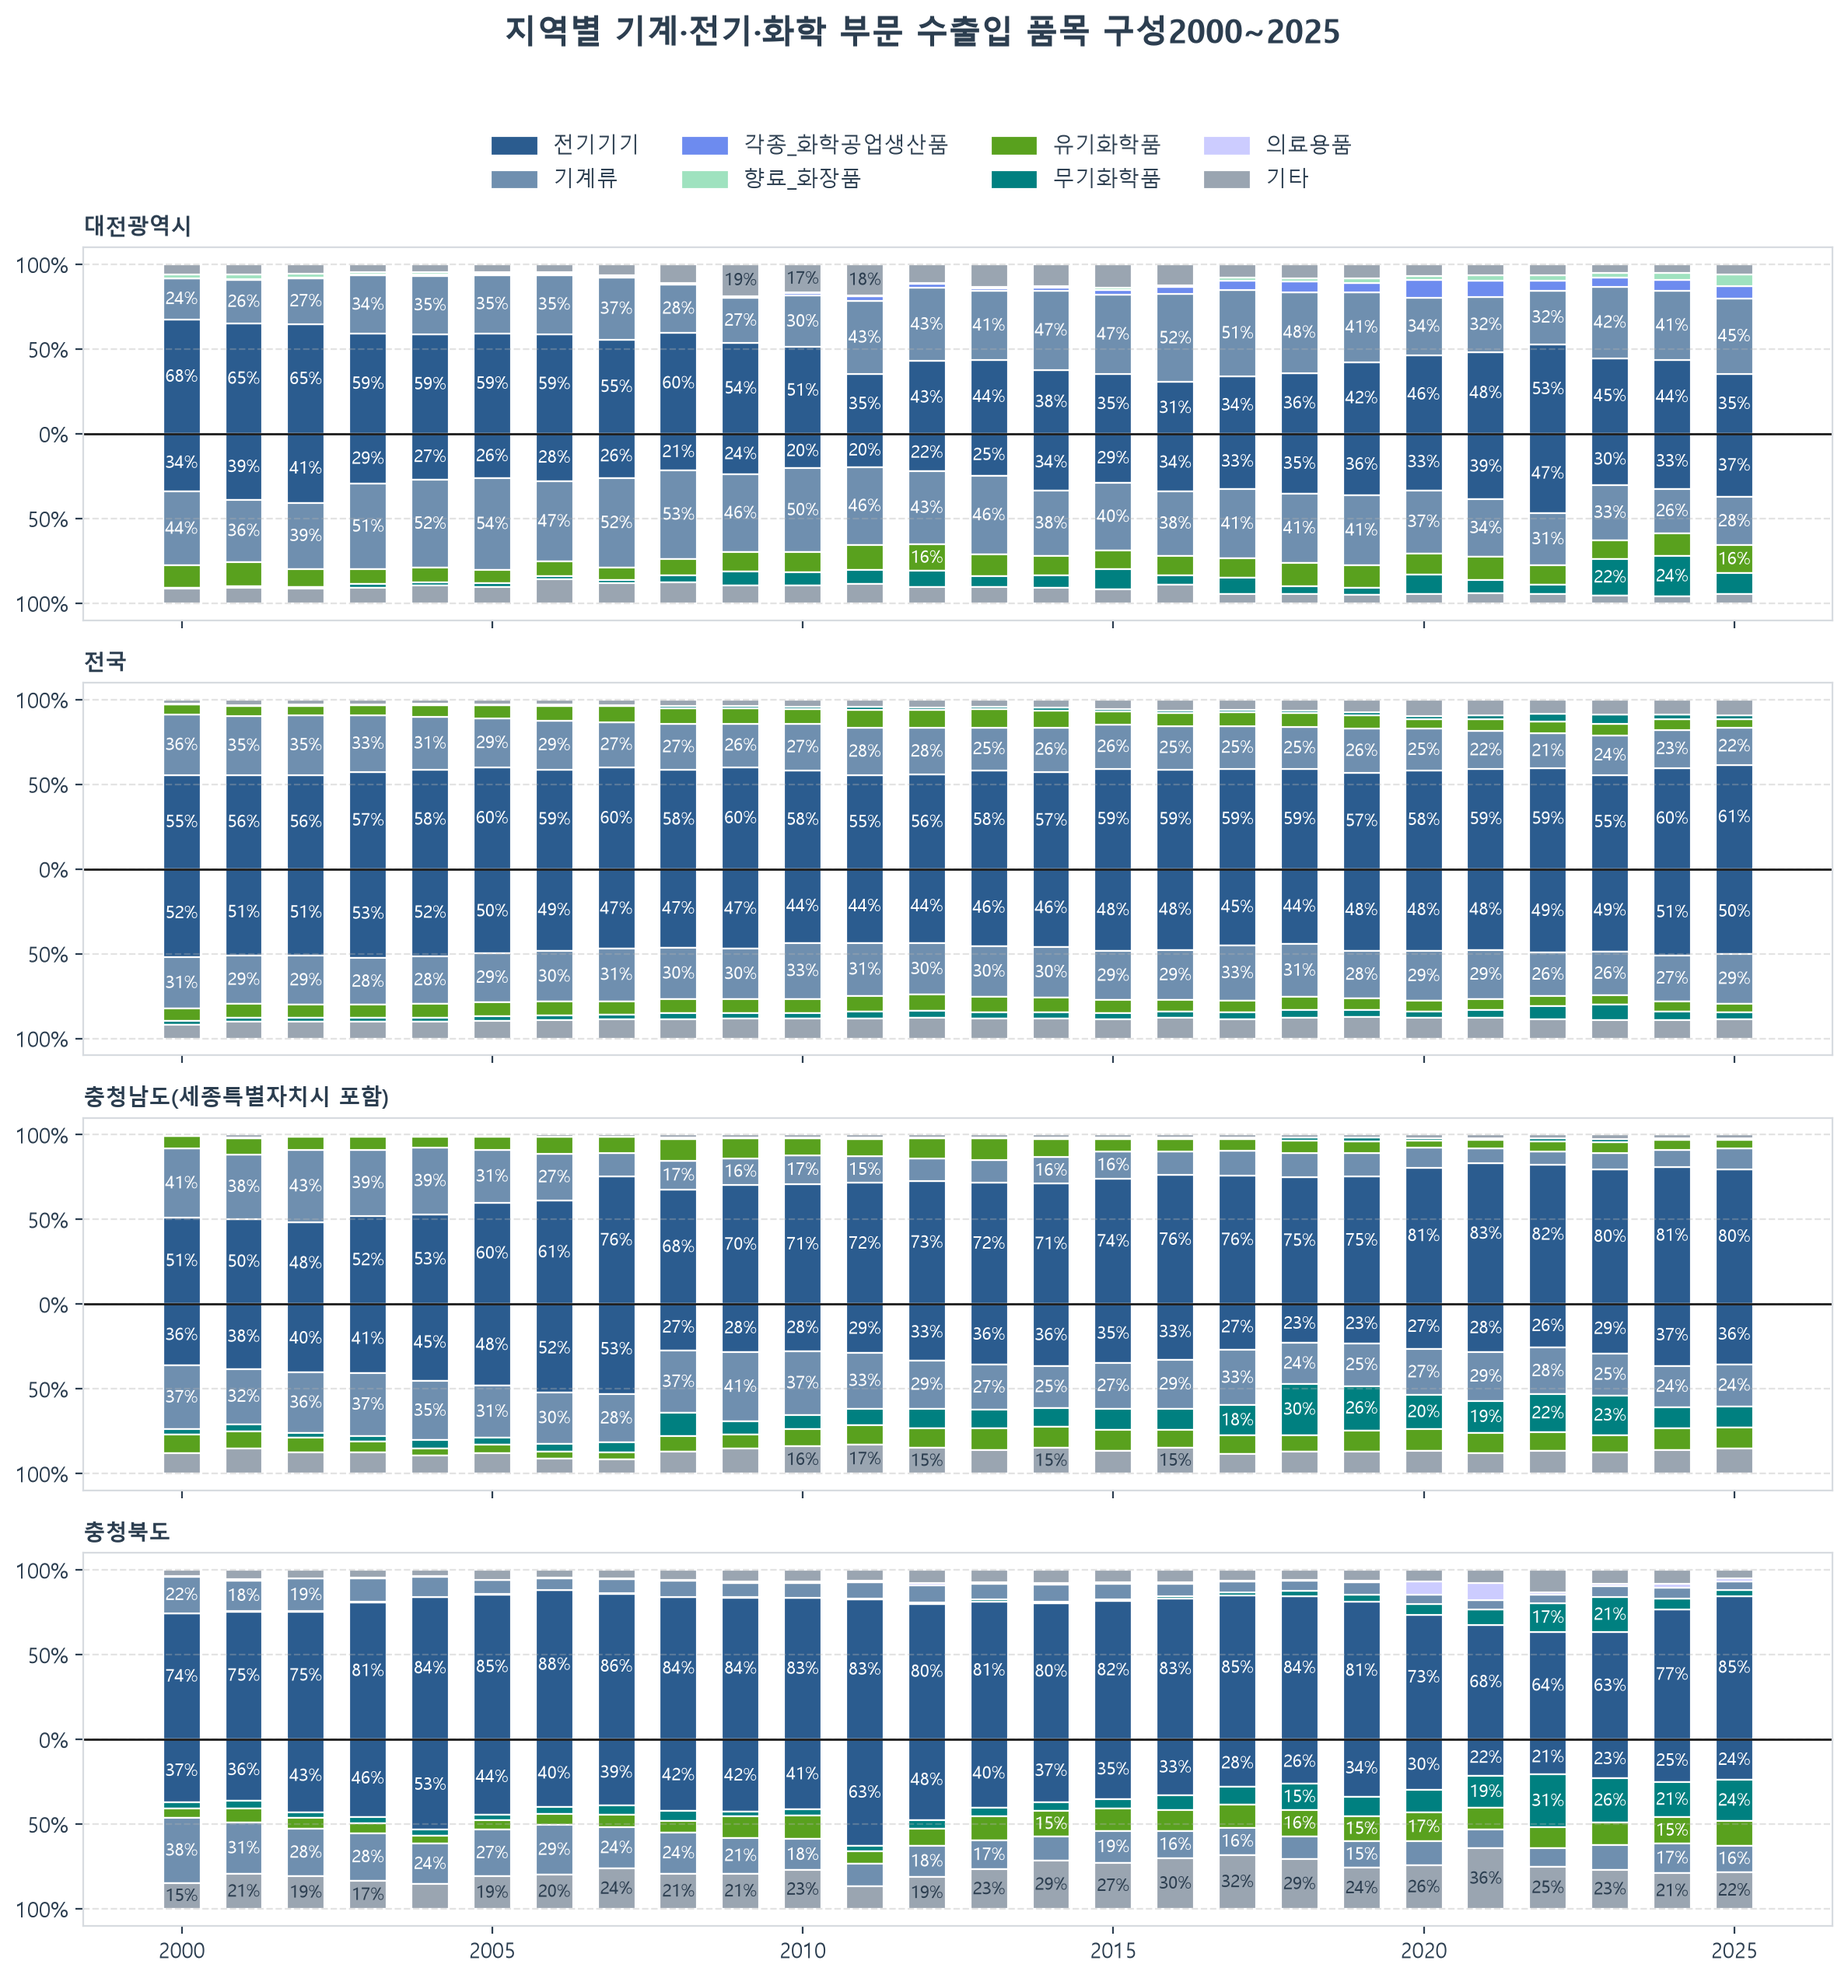
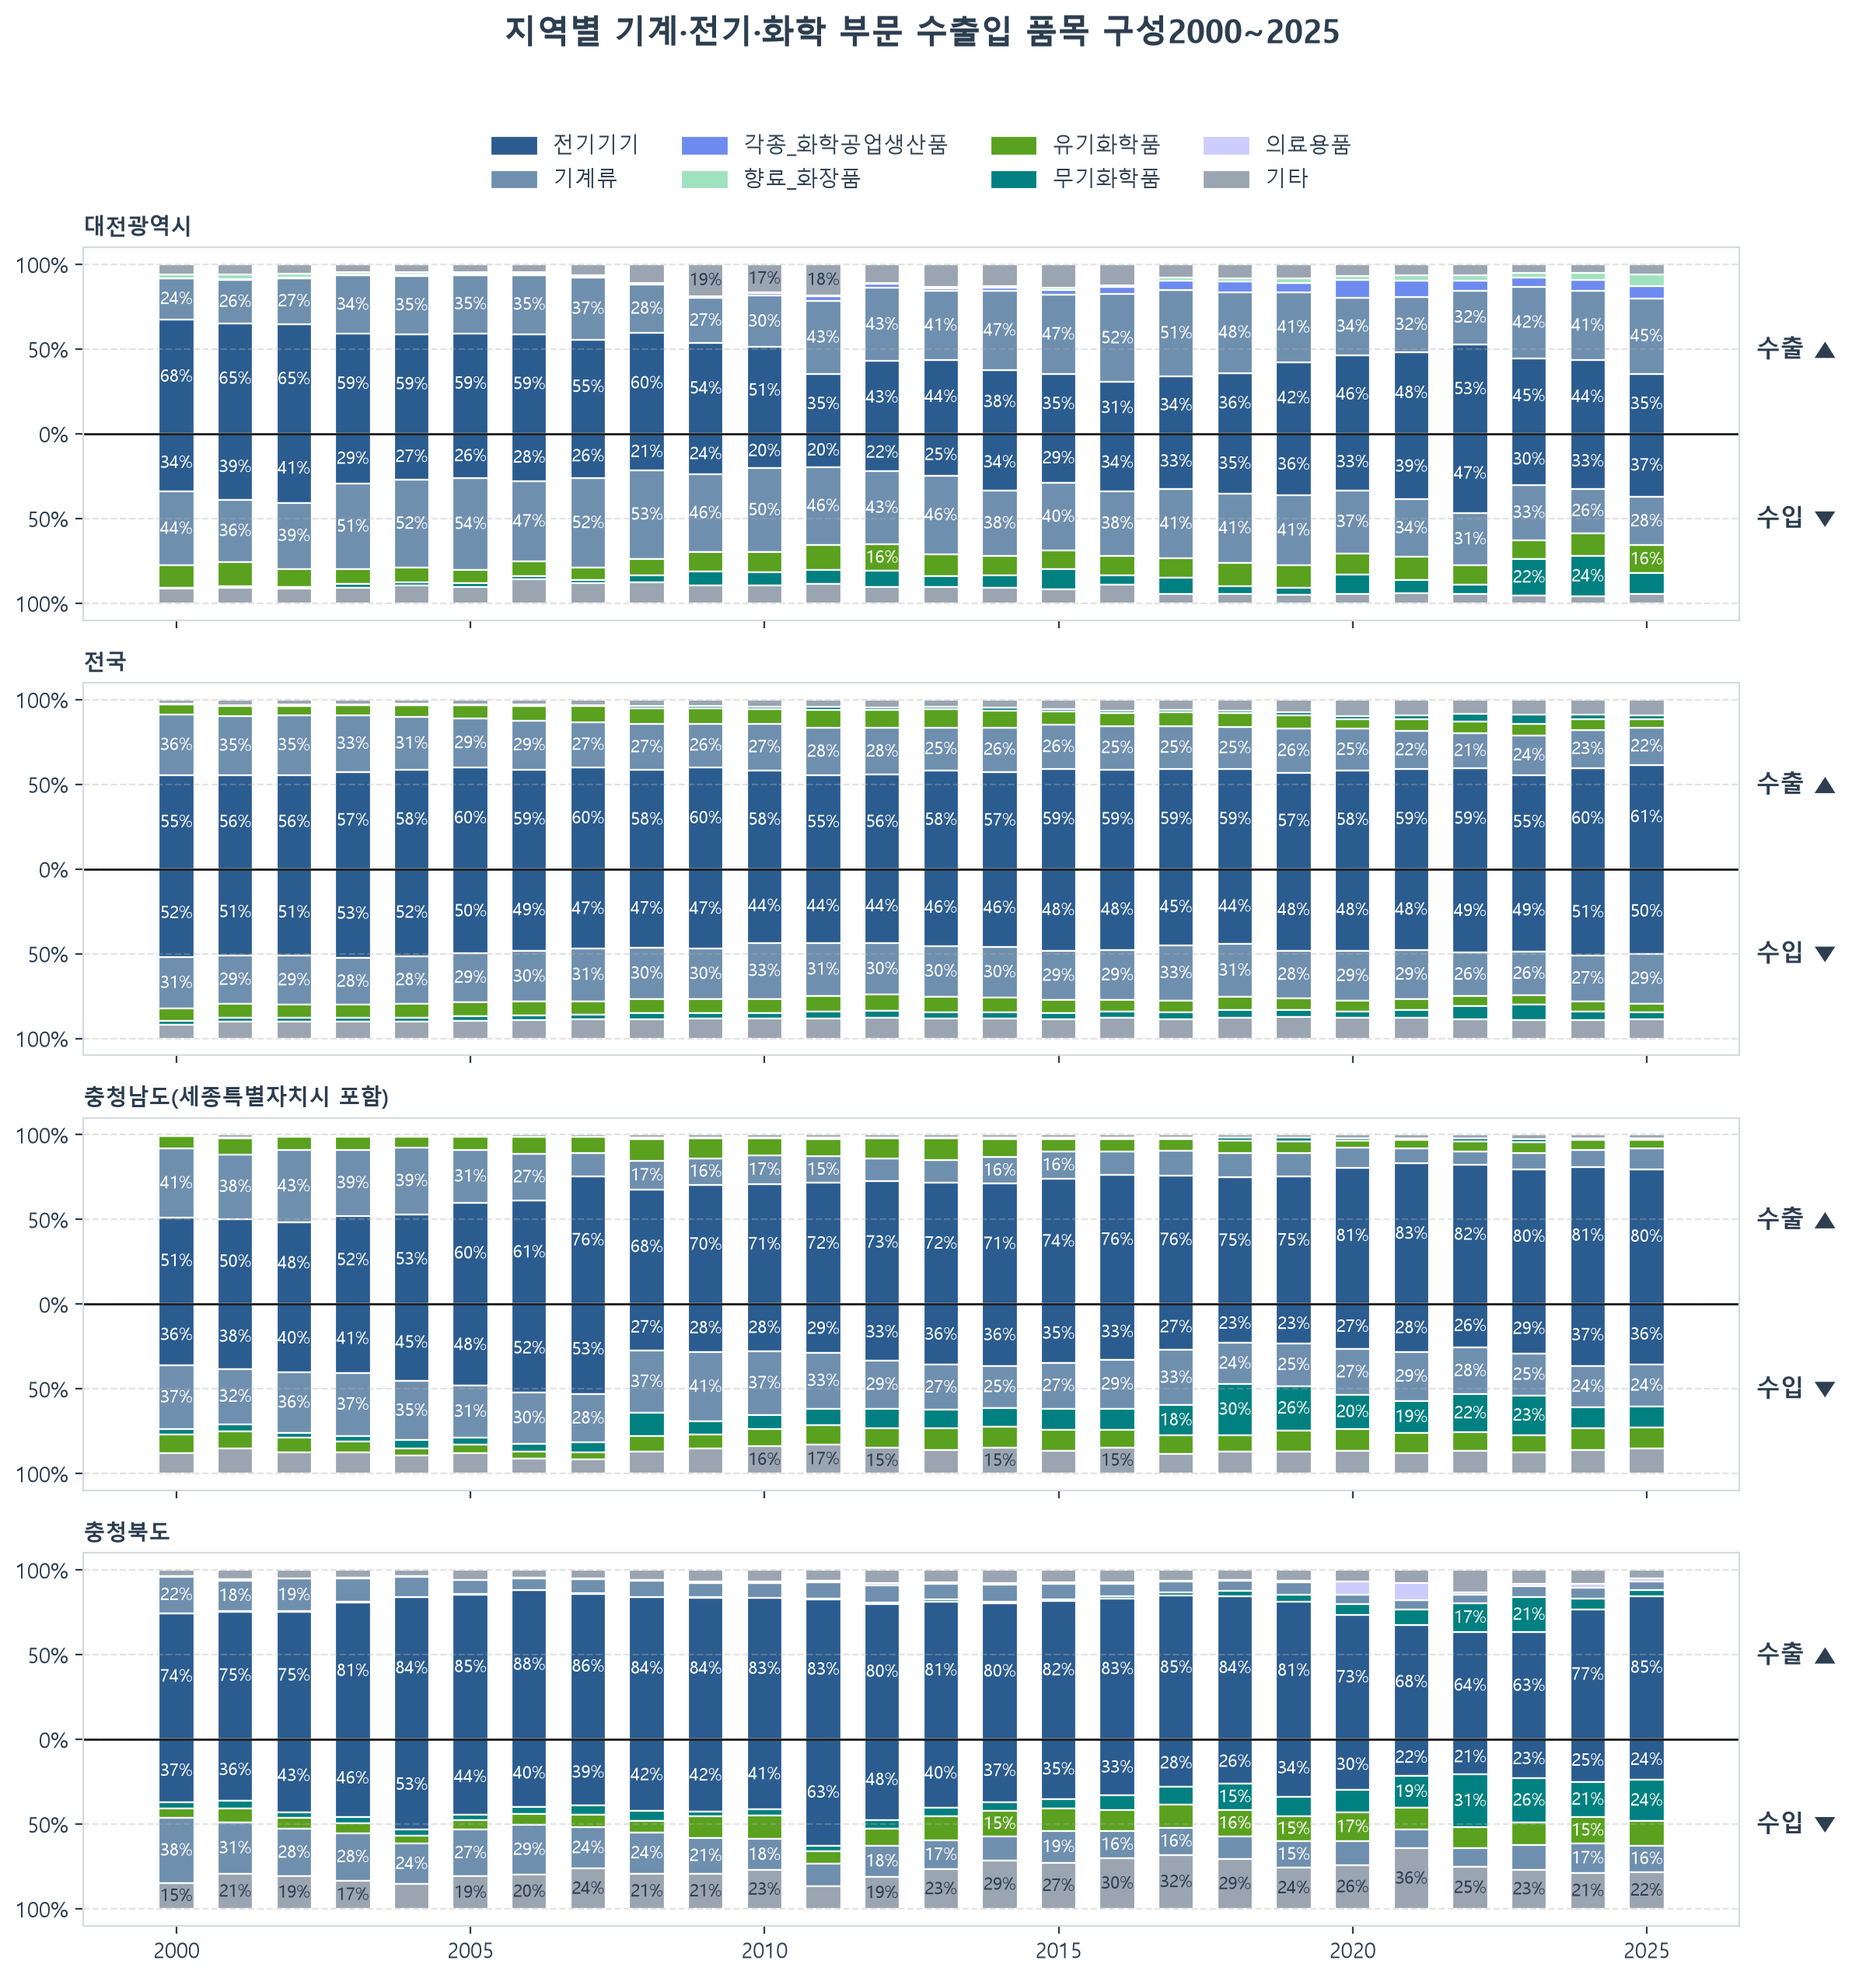
feat: Deajeon prep food, medic device detail ratio visual

diff --git a/src/vs/TD_9_food_medical_accumulate.py b/src/vs/TD_9_food_medical_accumulate.py
@@ -1,0 +1,141 @@
+"""
+====================================================================
+* Author: Minseo Kim
+* Data: data/processed/tradedata_dj_2020_2025.csv (관세청 무역통계)
+* Chart: exports above the axis, imports below, stacked by commodity group,
+  with the trade balance drawn on the same scale. Splitting these into two
+  charts hid the fact that the two sides are driven by different commodities.
+* Grouping: the two flows are collapsed into one shared set of four groups.
+  Ranking each side separately would put different commodities in the same
+  colour and make the panels uncomparable.
+* Output: output/02_trade_diverging.jpg
+====================================================================
+"""
+
+import sys
+from pathlib import Path
+
+import matplotlib.pyplot as plt
+import numpy as np
+import pandas as pd
+
+SRC_DIR = Path(__file__).resolve().parents[1]
+BASE_DIR = SRC_DIR.parent
+sys.path.insert(0, str(SRC_DIR))
+from core.utils_chart import DEVICE_FOOD, save, use_korean_font
+
+data_dir = BASE_DIR / "data" / "processed"
+FILE_PATH = data_dir / "tradedata_2000_2025_4_added.csv"
+
+MILLION = 1_000  # source unit is thousand USD
+LABEL_MIN_SHARE = 15
+
+DOMINANT = {
+    "조제식품류": ["담배", "사료"],
+    "광학, 정밀, 의료기기": ["광학_정밀의료기기"],
+}
+FLOWS = {"수출금액": "수출", "수입금액": "수입"}
+
+SECTION = list(dict.fromkeys(DOMINANT))
+
+DJ = "대전광역시"
+
+SAVE = "TD_09_DJ_food_medic_detail.png"
+
+use_korean_font()
+
+df = pd.read_csv(FILE_PATH)
+df = df[df["지역명"].eq(DJ) & df["부명약칭"].isin(SECTION)].copy()
+
+DEBUG = True
+
+
+def debug_print(*args, **kwargs):
+    if DEBUG:
+        print(*args, **kwargs)
+
+
+def check_shares_detail_rank(df: pd.DataFrame) -> dict:
+    """Find the top chapter over the past 10 years based on average sectional import and export values."""
+    start = df["기간"].max() - 9
+    frame = df[df["기간"].gt(start)]
+    for section in SECTION:
+        section_frame = frame[frame["부명약칭"].eq(section)]
+        year = section_frame.groupby(["류명약칭", "기간"], as_index=False)[
+            ["수출금액", "수입금액"]
+        ].sum()
+        ex_ratio = year.groupby("류명약칭")["수출금액"].mean()
+        im_ratio = year.groupby("류명약칭")["수입금액"].mean()
+
+        debug_print(f"\n--- {section} ---")
+        debug_print("\nExport Rank(2016~2025):")
+        debug_print(ex_ratio.nlargest().to_string())
+        debug_print("\nImport Rank(2016~2025):")
+        debug_print(im_ratio.nlargest().to_string())
+    return
+
+
+def dominant_shares(frame):
+    """Percent of each section's recent total held by its dominant chapters, per flow"""
+    start = df["기간"].max() - 9
+    frame = df[df["기간"].gt(start)]
+    rows = {}
+    for section, chapters in DOMINANT.items():
+        part = frame[frame["부명약칭"].eq(section)]
+        group = part["류명약칭"].where(part["류명약칭"].isin(chapters), "기타")
+        for cost, flow in FLOWS.items():
+            totals = (
+                part.groupby(group)[cost]
+                .sum()
+                .reindex(chapters + ["기타"], fill_value=0)
+            )
+            rows[f"{section} {flow}"] = totals / totals.sum() * 100
+    return pd.DataFrame(rows).T.fillna(0), start
+
+
+def plot_regions():
+    """Plot exports above the axis, imports below, stacked by commodity group."""
+    table, start = dominant_shares(df)
+    fig, ax = plt.subplots(
+        figsize=(11, 0.7 * len(table) + 1.5),
+        layout="constrained",
+    )
+    left = np.zeros(len(table))
+    y_positions = np.arange(len(table))
+    print(table)
+    print(list(table.index))
+    for group in table.columns:
+        values = table[group].to_numpy()
+        ax.barh(
+            list(table.index),
+            values,
+            left=left,
+            color=DEVICE_FOOD[group],
+            edgecolor="white",
+        )
+        for row, value, base, share in zip(y_positions, values, left, table[group]):
+            if share < LABEL_MIN_SHARE:
+                continue
+            ax.text(
+                base + value / 2,
+                row,
+                f"{group}\n{share:.0f}%",
+                ha="center",
+                va="center",
+                fontsize=8,
+                color="white" if group != "기타" else "#2c3e50",
+            )
+        left += values
+    ax.xaxis.set_major_formatter(lambda v, _: f"{abs(v):.0f}%")
+
+    fig.suptitle(
+        f"대전광역시 조제식품류·광학·정밀·의료기기 수출입 류별 구성 ({start}~{df['기간'].max()} 누적)",
+        fontsize=14,
+        fontweight="bold",
+    )
+    fig.tight_layout(rect=[0, 0, 1, 0.93])
+    save(fig, SAVE)
+
+
+if __name__ == "__main__":
+    plot_regions()

diff --git a/src/vs/TD_6_compare_common_cat.py b/src/vs/TD_6_compare_common_cat.py
@@ -150,7 +150,6 @@ def plot_regions():
                     linewidth=0.8,
                     label=label,
                 )
-                ax.grid(True, axis="y", linestyle="--", alpha=0.35)
                 for year, value, base, share in zip(
                     table.index, values, bottom, table[group]
                 ):
@@ -168,7 +167,18 @@ def plot_regions():
                 bottom += values
         ax.axhline(0, color="#1c1c1c", linewidth=1)
         ax.yaxis.set_major_formatter(lambda v, _: f"{abs(v):.0f}%")
+        ax.grid(True, axis="y", linestyle="--", alpha=0.35)
         ax.set_title(region, loc="left", fontsize=10, fontweight="bold")
+        flow_label = dict(
+            transform=ax.get_yaxis_transform(),
+            ha="left",
+            va="center",
+            fontsize=11,
+            fontweight="bold",
+            color="#2c3e50",
+        )
+        ax.text(1.01, 50, "수출 ▲", **flow_label)
+        ax.text(1.01, -50, "수입 ▼", **flow_label)
 
     handles = [plt.Rectangle((0, 0), 1, 1, color=COLORS_BASIC[g]) for g in all_groups]
     fig.suptitle(

diff --git a/src/vs/TD_7_compare_transport.py b/src/vs/TD_7_compare_transport.py
@@ -163,10 +163,20 @@ def plot_regions():
         ax.axhline(0, color="#1c1c1c", linewidth=1)
         ax.yaxis.set_major_formatter(lambda v, _: f"{abs(v):.0f}%")
         ax.set_title(region, loc="left", fontsize=10, fontweight="bold")
+        flow_label = dict(
+            transform=ax.get_yaxis_transform(),
+            ha="left",
+            va="center",
+            fontsize=11,
+            fontweight="bold",
+            color="#2c3e50",
+        )
+        ax.text(1.01, 50, "수출 ▲", **flow_label)
+        ax.text(1.01, -50, "수입 ▼", **flow_label)
 
     handles = [plt.Rectangle((0, 0), 1, 1, color=COLORS_BASIC[g]) for g in all_groups]
     fig.suptitle(
-        f"지역별 기계·전기·화학 부문 수출입 품목 구성"
+        f"대전, 전국 수송기기 부문 수출입 품목 구성"
         f"{df['기간'].min()}~{df['기간'].max()}",
         y=0.99,
         fontsize=15,

diff --git a/src/core/utils_chart.py b/src/core/utils_chart.py
@@ -78,13 +78,20 @@ PREP_FOOD = {
     "각종의_조제식료품": PALETTE["2"],
     "곡물_곡분의_조제품": PALETTE["3"],
     "음료_알콜식초": PALETTE["4"],
-    "사료 ": PALETTE["5"],
+    "사료": PALETTE["5"],
 }
 
 MEDIC_DEVICE = {
     "광학_정밀의료기기": PALETTE["primary"],
     "시계": PALETTE["1"],
     "악기": PALETTE["2"],
+}
+
+DEVICE_FOOD = {
+    "담배": PALETTE["1"],
+    "사료": PALETTE["2"],
+    "광학_정밀의료기기": PALETTE["4"],
+    "기타": PALETTE["muted"],
 }
 
 # core/trade_combine.py
